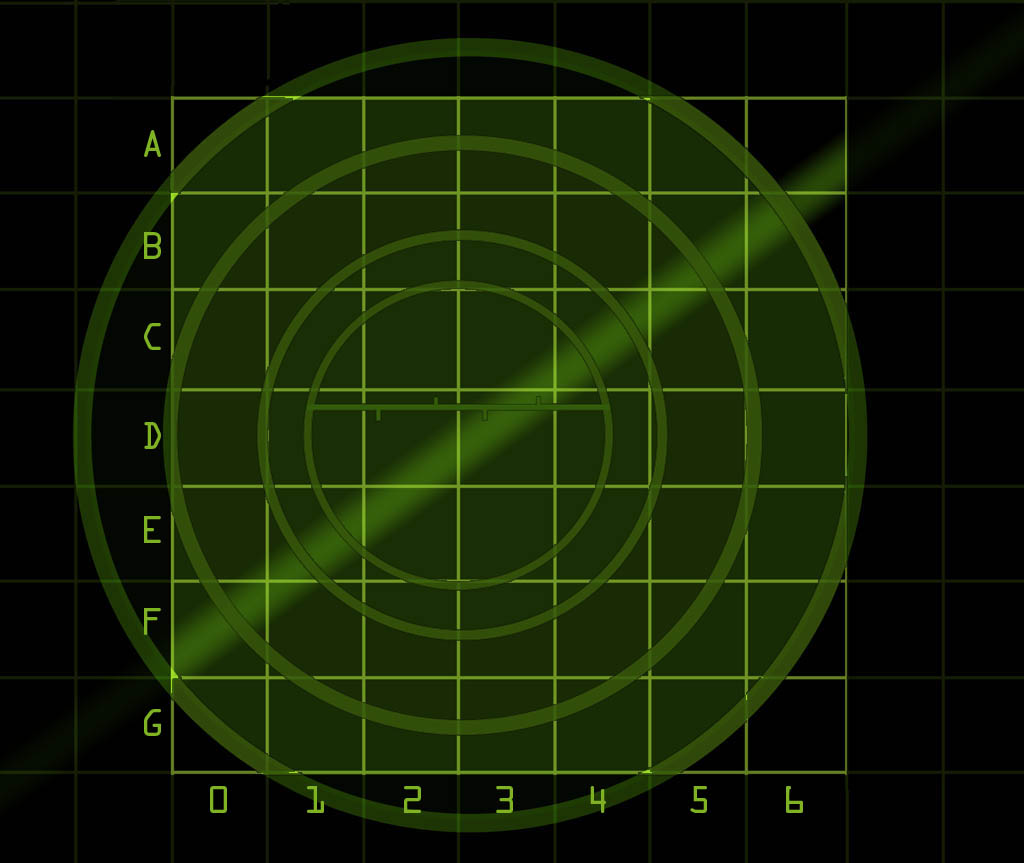
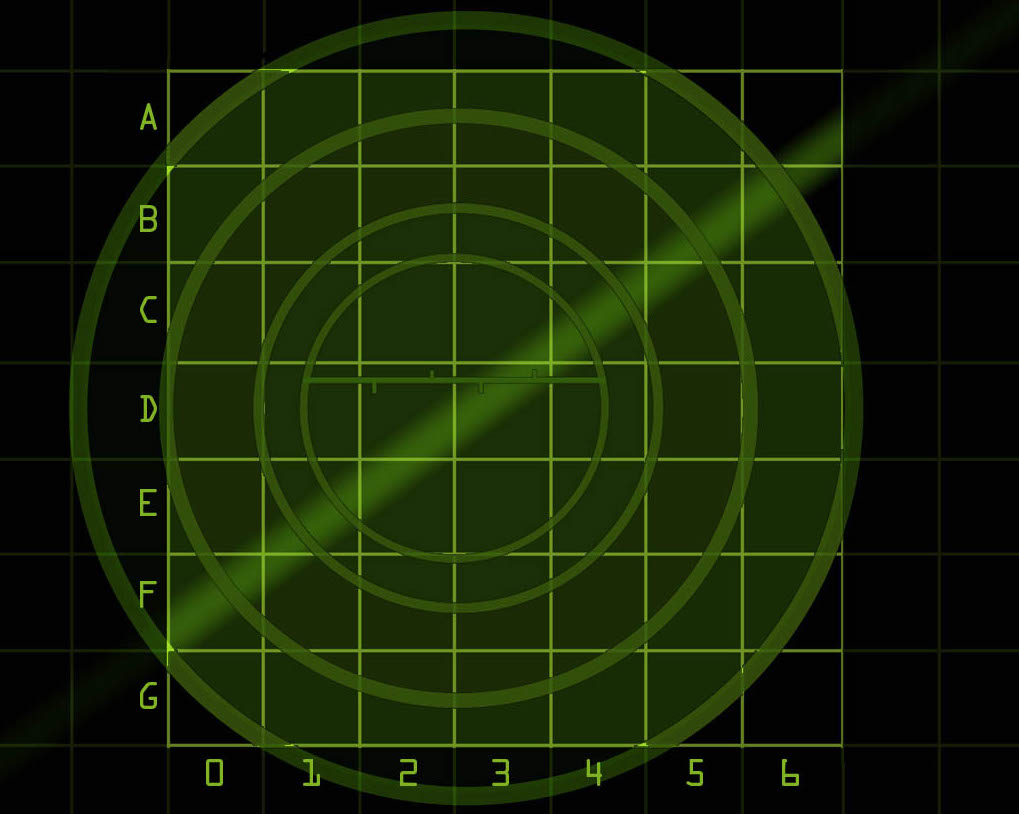
debugged my LESS successfully: nesting properly, fade vs lighten. Also resized and restyled control panel and adjusted board sizing to fit screen better. Still not optimized for some tablet and most phone screens.

diff --git a/css/style.css b/css/style.css
@@ -22,23 +22,23 @@ body {
 #board {
   position: relative;
   width: 793.8px;
-  height: 668.8px;
+  height: 645px;
   margin: auto;
   background: url("../media/board.jpg") no-repeat;
   background-size: contain;
 }
 #board table {
   position: absolute;
-  left: 134px;
-  top: 75px;
+  left: 131px;
+  top: 55px;
   border-spacing: 0px;
 }
 #board table td {
-  width: 74px;
+  width: 74.5px;
   height: 75px;
 }
-#board table:hover {
-  background-color: #dcf9c8;
+#board table td:hover {
+  background-color: rgba(83, 175, 19, 0.4);
 }
 #board table .hit {
   background: url("../media/banana.png") no-repeat center center;
@@ -47,7 +47,7 @@ body {
   background: url("../media/miss.png") no-repeat center center;
 }
 #board #author {
-  color: #bff49a;
+  color: rgba(83, 175, 19, 0.6);
   font-size: .9em;
   margin-top: 0;
   padding-top: 1em;
@@ -55,7 +55,7 @@ body {
 }
 #board #author a,
 #board #author-home a {
-  color: #85ea3e;
+  color: rgba(83, 175, 19, 0.6);
   text-decoration: none;
 }
 #messageArea {
@@ -65,22 +65,18 @@ body {
   border-radius: 2px;
   color: #53af13;
   border-style: inset;
-  font-size: 2em;
+  font-size: 1.75em;
   line-height: 110%;
   background: url('../media/monitor.png') no-repeat;
   background-size: cover;
-  height: 140px;
+  height: 120px;
   padding: 15px;
 }
 #form {
-  border-color: grey;
-  border-style: outset;
-  border-width: 2px;
-  border-radius: 2px;
   color: #53af13;
   width: 100%;
   background-color: black;
-  padding: 15px;
+  padding: 0px 15px 15px 15px;
 }
 #form #guessInput {
   border-color: grey;
@@ -88,17 +84,20 @@ body {
   border-width: 2px;
   border-radius: 2px;
   color: #53af13;
+  border-style: inset;
   background: url('../media/monitor.png') no-repeat;
   background-size: cover;
   font-size: 1.5em;
   margin-right: 5px;
   margin-bottom: 10px;
+  height: 50px;
+  width: 95px;
 }
 #form #fireButton {
   background: url('../media/fire.jpg') no-repeat;
   background-size: cover;
-  width: 90px;
-  height: 50px;
+  width: 95px;
+  height: 58px;
   border-color: grey;
   border-style: outset;
   border-width: 2px;
@@ -122,22 +121,50 @@ HOME SCREEN STYLES
   background-color: black;
   color: #53af13;
 }
-.jumbotron .jumbotron .btn-default {
-  background-color: #85ea3e;
+.jumbotron .btn-default {
+  background-color: rgba(83, 175, 19, 0.95);
   border-color: grey;
   border-style: outset;
   border-width: 2px;
   border-radius: 2px;
   margin-top: 10px;
 }
-.jumbotron .jumbotron .btn-default:hover {
+.jumbotron .btn-default:hover {
   background-color: #53af13;
 }
-.jumbotron #author-home {
+.jumbotron #author-home,
+.jumbotron #author-home a {
   color: rgba(83, 175, 19, 0.6);
   margin-top: 6em;
   font-size: 1em;
 }
+/*
+body
+    game
+        table
+        board
+        control-panel (NO STYLES)
+            messageArea
+            formArea
+                form-group
 
+    home
+        jumbotron
+            home-text
+                home-heading
+                home-p
+            a start-game-button
+            a show-instructions
+            a
+
+            author-home
+
+
+
+
+
+
+
+*/
 
 /*# sourceMappingURL=style.css.map */

diff --git a/css/style.less b/css/style.less
@@ -35,23 +35,22 @@ body {
 #board {
     position: relative;
     width: 793.8px;
-    height: 668.8px;
+    height: 645px;
     margin: auto;
     background: url("../media/board.jpg") no-repeat;
     background-size: contain;
 
     table {
         position: absolute;
-        left: 134px;
-        top: 75px;
+        left: 131px;
+        top: 55px;
         border-spacing: 0px;
-
         td {
-            width: 74px;
+            width: 74.5px;
             height: 75px;
-        }
-        &:hover {
-            background-color: lighten(@color, 50%);
+            &:hover {
+                background-color: fade(@color, 40%);
+            }
         }
         .hit {
             background: url("../media/banana.png") no-repeat center center;
@@ -61,14 +60,14 @@ body {
         }
     }
     #author {
-        color: lighten(@color, 40%);
+        color: fade(@color, 60%);
         font-size: .9em;
         margin-top: 0;
         padding-top: 1em;
         margin-left: 137px;
     }
     #author a, #author-home a {
-        color: lighten(@color, 20%);
+        color: fade(@color, 60%);
         text-decoration: none;
     }
 } // END GAME BOARD
@@ -77,32 +76,35 @@ body {
     #messageArea {
         .controlPanelStyles;
         border-style: inset;
-        font-size: 2em;
+        font-size: 1.75em;
         line-height: 110%;
         background: url('../media/monitor.png') no-repeat;
         background-size: cover;
-        height: 140px;
+        height: 120px;
         padding: 15px;
     }
     #form {
-        .controlPanelStyles;
+        color: @color;
         width: 100%;
         background-color: black;
-        padding: 15px;
+        padding: 0px 15px 15px 15px;
 
         #guessInput {
             .controlPanelStyles;
+            border-style: inset;
             background: url('../media/monitor.png') no-repeat;
             background-size: cover;
             font-size: 1.5em;
             margin-right: 5px;
             margin-bottom: 10px;
+            height: 50px;
+            width: 95px;
         }
         #fireButton {
             background: url('../media/fire.jpg') no-repeat;
             background-size: cover;
-            width: 90px;
-            height: 50px;
+            width: 95px;
+            height: 58px;
             .customBorder;
         }
         .darkened-image {
@@ -128,16 +130,15 @@ HOME SCREEN STYLES
     background-color: black;
     color: @color;
 
-    .jumbotron .btn-default {
-        background-color: lighten(@color, 20%);
+    .btn-default {
+        background-color: fade(@color, 95%);
         .customBorder;
         margin-top: 10px;
-
         &:hover {
             background-color: @color;
         }
     }
-    #author-home {
+    #author-home, #author-home a {
         color: rgba(83, 175, 19, .6);
         margin-top: 6em;
         font-size: 1em;

diff --git a/game.html b/game.html
@@ -14,7 +14,7 @@
         <!-- FROM BATTLE BANANA HOME -->
         <link href='https://fonts.googleapis.com/css?family=Special+Elite' rel='stylesheet' type='text/css'>
         <!-- <link href='https://fonts.googleapis.com/css?family=Press+Start+2P' rel='stylesheet' type='text/css'> -->
-        <link rel="stylesheet" href="css/style2.css">
+        <link rel="stylesheet" href="css/style.css">
         <title>BattleBanana</title>
     </head>
 

diff --git a/home.html b/home.html
@@ -14,7 +14,7 @@
         <!-- FROM BATTLE BANANA HOME -->
         <link href='https://fonts.googleapis.com/css?family=Special+Elite' rel='stylesheet' type='text/css'>
         <!-- <link href='https://fonts.googleapis.com/css?family=Press+Start+2P' rel='stylesheet' type='text/css'> -->
-        <link rel="stylesheet" href="css/style2.css">
+        <link rel="stylesheet" href="css/style.css">
         <title>BattleBanana</title>
     </head>
 
